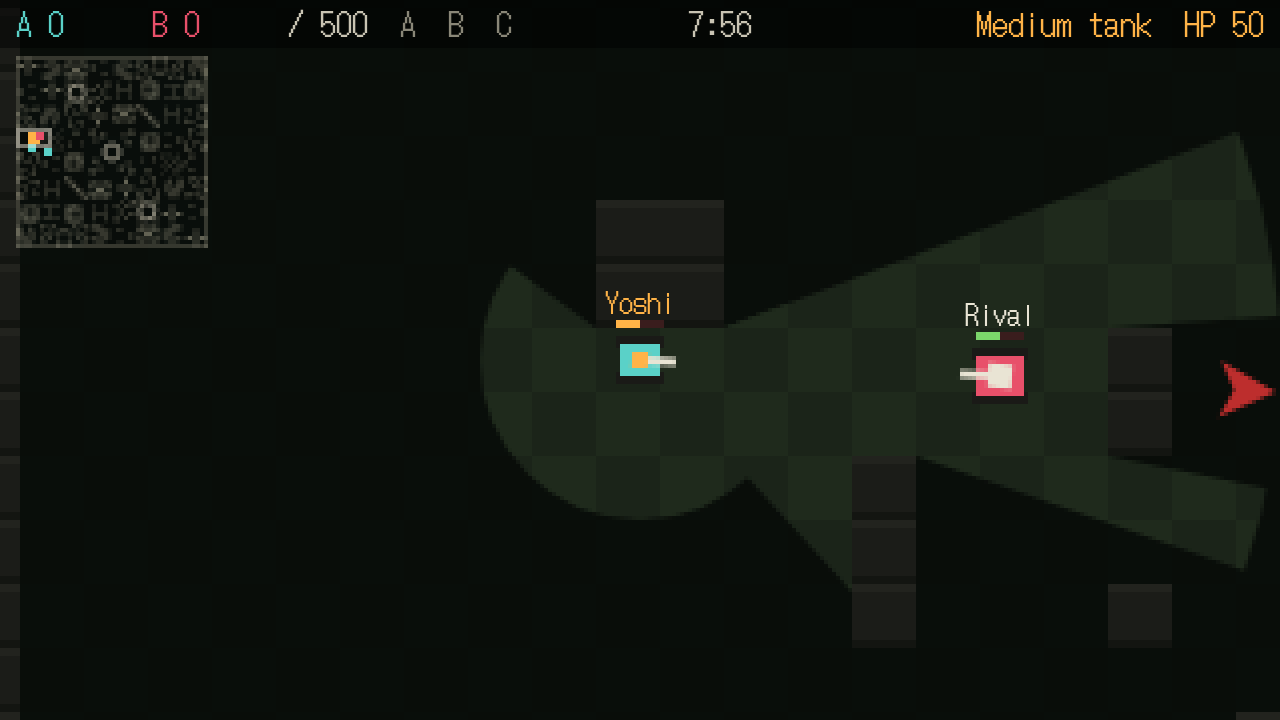
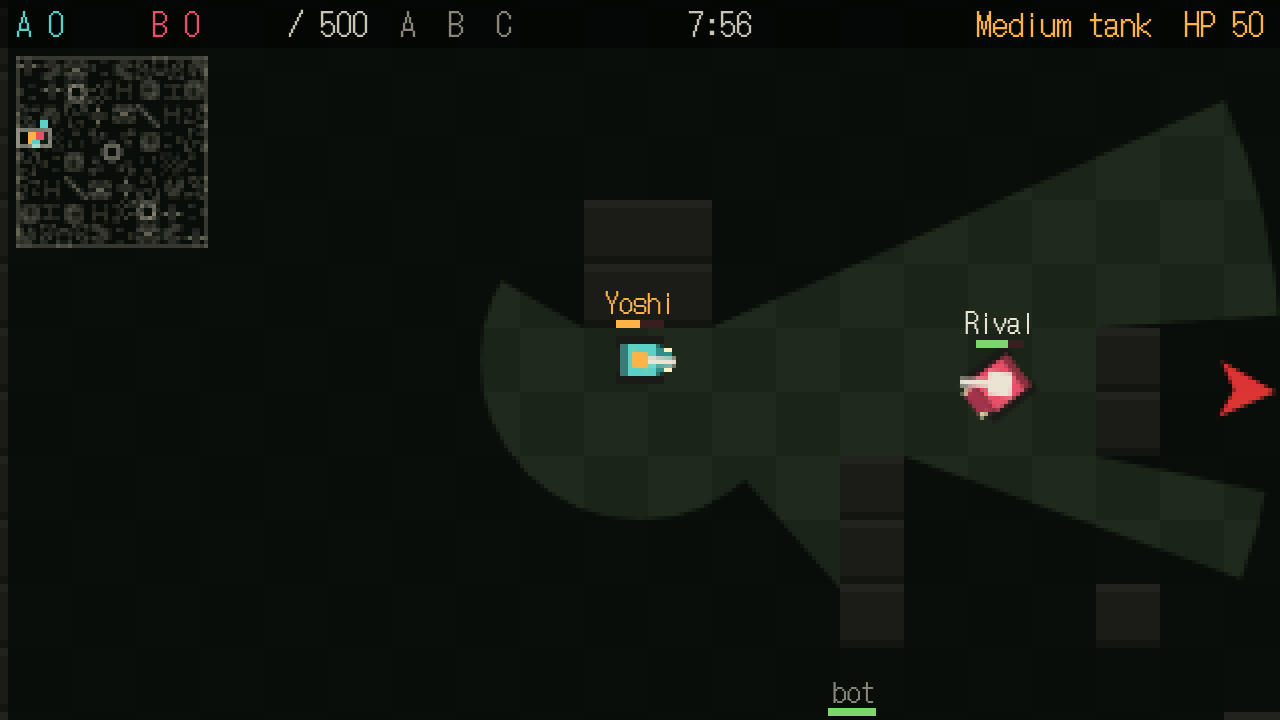
Mark the hull front so tank facing is easy to read
- Hull drawn with a sloped nose in a darker team color that sticks out past the treads, two
  headlights on the front corners and a dark rear edge, so the front shows at any angle
  (the turret turns independently and no longer tells you which way the tank drives)
- New README screenshot with the new tank look
- Spec: how the hull shows its facing

diff --git a/public/game.js b/public/game.js
@@ -25,7 +25,10 @@ const PALETTE = {
   floorA: "#1b2419", floorB: "#1f2a1c",
   wall: "#6d6a5c", wallTop: "#8f8b78", wallShade: "#4a483e",
   tread: "#1a1a17",
+  headlight: "#fff3c4", // front corners of the hull, so the facing is easy to read
+  rearShade: "rgba(0, 0, 0, 0.4)", // darker back end of the hull
   A: "#5ad1c8", B: "#e8506a",
+  noseA: "#2f8f88", noseB: "#a3334a", // darker front armor, so the hull's front stands out at any angle
   bullet: "#ffe08a", flare: "#ffb347",
   hpBack: "#3a1d1d", hpFore: "#7bd66b",
   fog: "rgba(4, 7, 5, 0.78)", // 視界の外を覆う暗さ
@@ -808,7 +811,8 @@ const SPRITE = {
 function drawTank(k, isMe) {
   const x = Math.round(k.x - cam.x), y = Math.round(k.y - cam.y);
   const sp = SPRITE[k.k] || SPRITE.medium;
-  // 車体 (drawn at its real angle: the hull now turns smoothly like a tank)
+  // 車体 (drawn at its real angle: the hull turns smoothly like a tank). Local +x is the front:
+  // a sloped nose sticking out past the treads, two headlights on the front corners, a dark rear edge
   ctx.save();
   ctx.translate(x, y);
   ctx.rotate(k.b);
@@ -816,7 +820,20 @@ function drawTank(k, isMe) {
   ctx.fillRect(-sp.l, -sp.w - 2, sp.l * 2, 3);
   ctx.fillRect(-sp.l, sp.w - 1, sp.l * 2, 3);
   ctx.fillStyle = PALETTE[k.team];
-  ctx.fillRect(-sp.l + 1, -sp.w, sp.l * 2 - 2, sp.w * 2);
+  ctx.fillRect(-sp.l + 1, -sp.w, sp.l * 2 - 3, sp.w * 2);
+  ctx.fillStyle = PALETTE[`nose${k.team}`];
+  ctx.beginPath(); // sloped front armor
+  ctx.moveTo(sp.l - 2, -sp.w);
+  ctx.lineTo(sp.l + 2, -sp.w + 2);
+  ctx.lineTo(sp.l + 2, sp.w - 2);
+  ctx.lineTo(sp.l - 2, sp.w);
+  ctx.closePath();
+  ctx.fill();
+  ctx.fillStyle = PALETTE.rearShade;
+  ctx.fillRect(-sp.l + 1, -sp.w, 2, sp.w * 2);
+  ctx.fillStyle = PALETTE.headlight;
+  ctx.fillRect(sp.l, -sp.w + 1, 2, 1);
+  ctx.fillRect(sp.l, sp.w - 2, 2, 1);
   ctx.restore();
   // 砲塔
   ctx.save();

diff --git a/docs/spec.md b/docs/spec.md
@@ -326,6 +326,7 @@ flowchart LR
 | --- | --- |
 | 描画 | Canvas 2D。拡大時は `image-rendering: pixelated` でドットをくっきり表示 |
 | 視界表現 | 可視ポリゴンの外側を暗く塗りつぶす |
+| 車体の向き | 車体は実際の角度で描く。前面は濃い色の傾斜装甲で履帯より少し前に出し、左右の角に前照灯を付ける。後端は暗くする（砲塔の向きと関係なく前方がわかるように） |
 | 効果音 | jsfxr系ツールでレトロ音を生成し、Web Audio APIで再生 |
 | 音の方向 | 発砲音は方向と距離に応じて左右の音量と大きさを変える |
 | 主な効果音 | 発射、着弾、撃破、拠点制圧、被弾、ピン |
